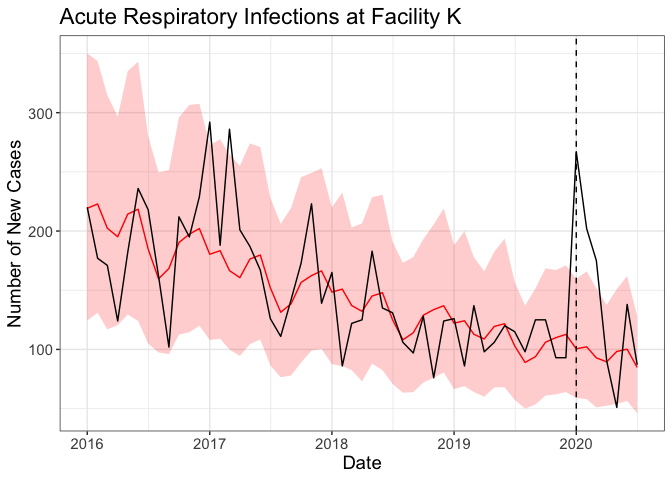
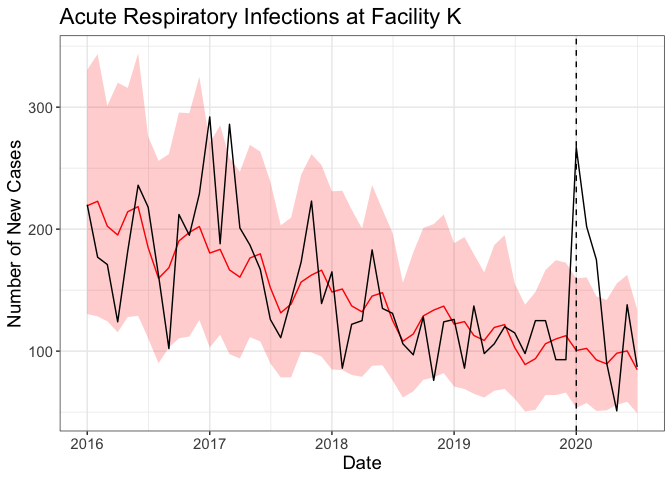
updates

diff --git a/README.md b/README.md
@@ -252,12 +252,12 @@ proportions.
     head(single.facility.results)
 
     ##         site       date observed est_count ci_count_low ci_count_up
-    ## 1 Facility K 2016-01-01      220  219.2009      124.375     350.100
-    ## 2 Facility K 2016-02-01      177  222.8679      131.000     343.525
-    ## 3 Facility K 2016-03-01      171  202.4128      116.950     314.775
-    ## 4 Facility K 2016-04-01      124  195.2028      120.475     296.575
-    ## 5 Facility K 2016-05-01      182  214.2785      129.475     335.050
-    ## 6 Facility K 2016-06-01      236  218.4203      124.000     343.050
+    ## 1 Facility K 2016-01-01      220  219.2009      130.425     330.575
+    ## 2 Facility K 2016-02-01      177  222.8679      128.475     343.525
+    ## 3 Facility K 2016-03-01      171  202.4128      124.475     301.050
+    ## 4 Facility K 2016-04-01      124  195.2028      115.475     320.050
+    ## 5 Facility K 2016-05-01      182  214.2785      127.900     315.775
+    ## 6 Facility K 2016-06-01      236  218.4203      128.950     344.100
     ##   observed_prop   est_prop ci_prop_low ci_prop_up
     ## 1    0.07006369 0.06863057  0.04089968 0.11273885
     ## 2    0.05035562 0.07083926  0.04237553 0.11749644
@@ -410,33 +410,46 @@ We recommend reading
 (<a href="https://otexts.com/fpp2/residuals.html" class="uri">https://otexts.com/fpp2/residuals.html</a>)
 for an overview on evaluating time series models. We provide code to
 replicate these plots and tests using the output from our main
-functions. We first show at the residual plots using output from either
-function. First, we do this for the aggregate results and then for the
+functions. We show at the residual plots using the output from our main
+functions. We do this for the aggregate results and then for the
 facility-level results for County K.
 
-    plot_residuals(aggregate.results,type="count",extrapolation_date="2020-01-01",title="Residuals from Aggregated model")
+    plot_residuals(aggregate.results,
+                   type="count",
+                   extrapolation_date="2020-01-01",
+                   title="Residuals from Aggregated model")
 
 ![](README_files/figure-markdown_strict/unnamed-chunk-17-1.png)
 
-    plot_residuals(single.facility.results,type="count",extrapolation_date="2020-01-01",title="Residuals from County K model")
+    plot_residuals(single.facility.results,
+                   type="count",
+                   extrapolation_date="2020-01-01",
+                   title="Residuals from County K model")
 
 ![](README_files/figure-markdown_strict/unnamed-chunk-18-1.png)
 
-We can then look at the Partial Autocorrelation Function and
-Autocorrelation Function plots using output from either functions.
+We then look at the Partial Autocorrelation Function and Autocorrelation
+Function plots for County K. The same code can be used for the
+aggregated results.
 
-    plot_pacf(single.facility.results,type="count",extrapolation_date="2020-01-01",title="PACF for County K")
+    plot_pacf(single.facility.results,
+              type="count",
+              extrapolation_date="2020-01-01",
+              title="PACF for County K")
 
 ![](README_files/figure-markdown_strict/unnamed-chunk-19-1.png)
 
-    plot_acf(single.facility.results,type="count",extrapolation_date="2020-01-01",title="ACF for County K")
+    plot_acf(single.facility.results,
+             type="count",
+             extrapolation_date="2020-01-01",
+             title="ACF for County K")
 
 ![](README_files/figure-markdown_strict/unnamed-chunk-20-1.png)
 
 Lastly, we can conduct the Bresuch-Godfrey Test for the facility-level
 models (order = 12 for monthly data). This code will apply over multiple
-site (or faiclity) results, providing a way to rapidly identify
-potentially problematic model fits.
+site (or faiclity) results. This provides a way to rapidly identify
+problematic model fits for further investigation.
 
     bgtest_multiple_pval(data=data,
                          indicator_var = "ari_cases",
@@ -451,5 +464,5 @@ potentially problematic model fits.
     ## Facility Q.p.value 0.04000929
 
 A p-value less than 0.05 indicates evidence of residual correlation. As
-such, we should probably further investigate the model fit for County Q.
-There is no evidence of residual correlation in Facility K.
+such, we should further investigate the model fit for County Q. There is
+no evidence of residual correlation in Facility K.
